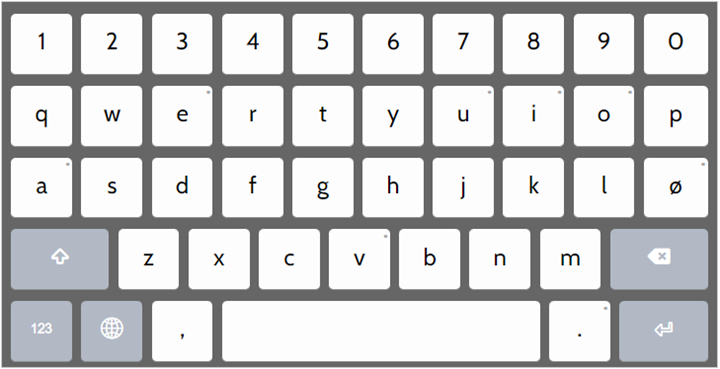
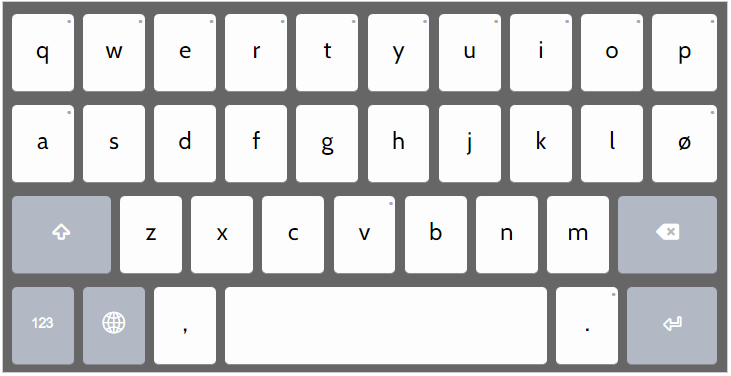
chore: Update documentation with updated layout

diff --git a/release/r/rawang/source/welcome/welcome.htm b/release/r/rawang/source/welcome/welcome.htm
@@ -76,6 +76,8 @@
 <h2>Mobile/Tablet Keyboard Layout</h2>
 <p>High, low, and middle tones are available on long presses for keys: (a, e, i, o, u, v, ø)
   Press and hold on the key with a little dot on the top right to reveal and use them.</p>
+<p>Numerals are available as longpresses on the top row of keys</p>  
+<p>More punctuation are available as longpresses on the period key</p>
 
 <h3>Default (unshifted)</h3>
 <p><a href="mobileU_.png"><img class="keyboard" src="mobileU_.png" alt="Default (unshifted) layer" /></a></p>

diff --git a/release/r/rawang/source/help/rawang.php b/release/r/rawang/source/help/rawang.php
@@ -65,6 +65,8 @@ EXTRA;
 <h2>Mobile/Tablet Keyboard Layout</h2>
 <p>High, low, and middle tones are available on long presses for keys: (a, e, i, o, u, v, ø)
   Press and hold on the key with a little dot on the top right to reveal and use them.</p>
+<p>Numerals are available as longpresses on the top row of keys</p>
+<p>More punctuation are available as longpresses on the period key</p>
 
 <div id='osk-tablet' data-states='default shift numeric'>
 </div>

diff --git a/release/r/rawang/HISTORY.md b/release/r/rawang/HISTORY.md
@@ -1,11 +1,12 @@
 Rawang Change History
 ====================
 
-1.7 (2024-02-22)
+1.7 (2024-02-29)
 ----------------
 * Optimize touch layout. 
-* Add longpress keys to a,e,i,o,ø,u,v
-* Add numeric layer
+  * Add longpress keys to a,e,i,o,ø,u,v
+  * Add numerals to longpressees on top row
+  * Add numeric layer
 
 1.6 (2021-03-10)
 ----------------
